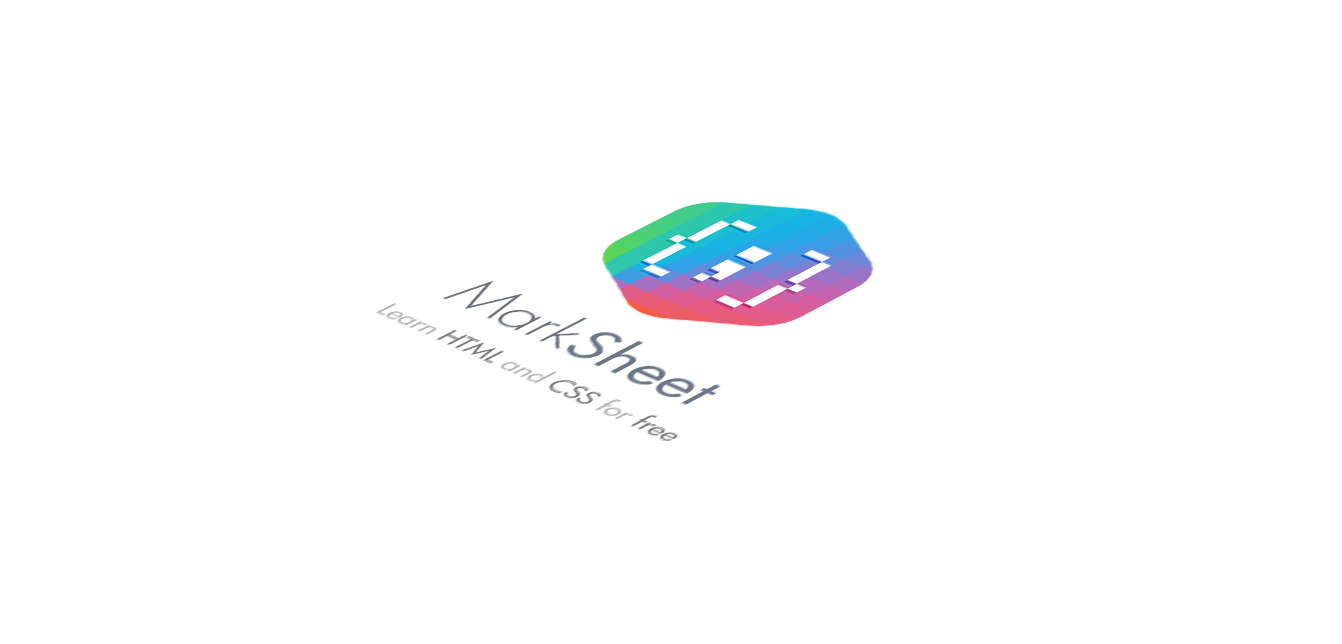
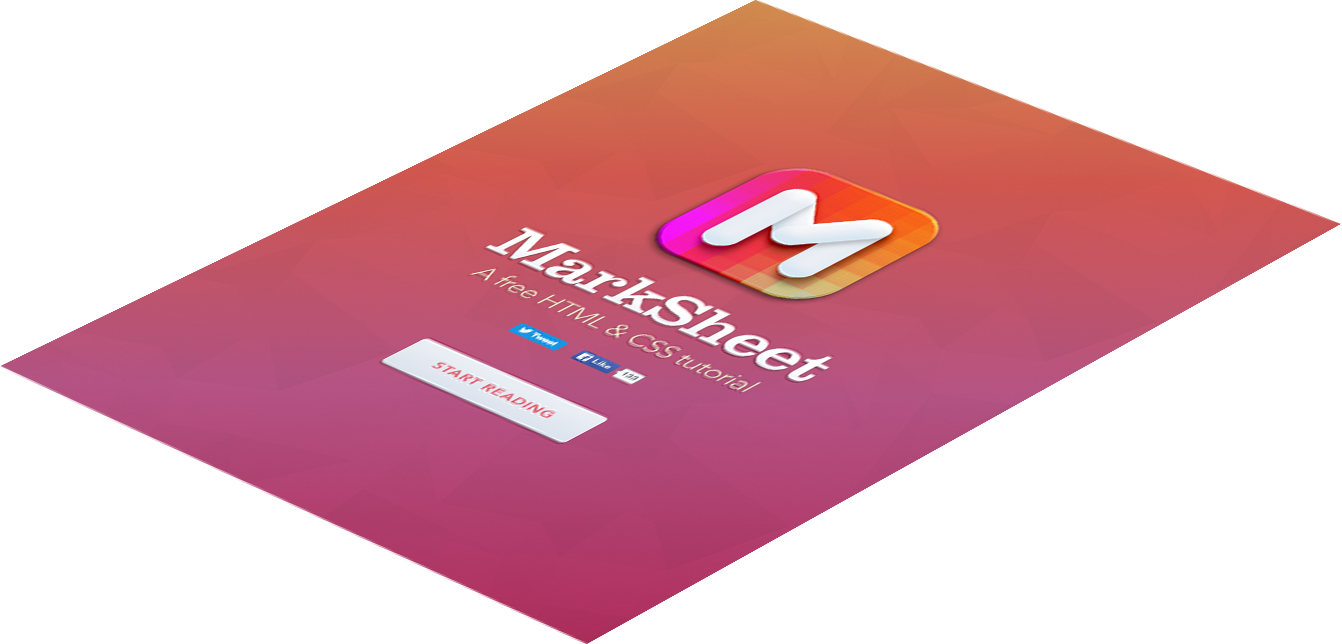
add improbable, update marksheet to v2

diff --git a/projects.html b/projects.html
@@ -9,6 +9,48 @@ route: projects
   <h2>For fun and knowledge</h2>
 </hgroup>
 
+<article class="project marksheet">
+  <figure class="device ipad-v">
+    <img class="lazy" data-src="/images/screenshots/marksheet.jpg" src="/images/empty.png">
+    <noscript>
+      <img src="/images/screenshots/marksheet.jpg">
+    </noscript>
+  </figure>
+
+  <div class="container">
+    <div class="project-content">
+      <p class="date">November 2015</p>
+
+      <figure class="logo">
+        <img class="lazy" data-src="/images/projects/marksheet.png" src="/images/empty.png">
+        <noscript>
+          <img src="/images/projects/marksheet.png">
+        </noscript>
+      </figure>
+
+      <h2 class="title">
+        MarkSheet v2
+      </h2>
+
+      <p class="url">marksheet.io</p>
+
+      <div class="content">
+        <p>Throughout <span class="css-years"></span> years of front-end design, I have acquired both a reasonable set of CSS skills and an unwavering desire to share my knowledge.</p>
+        <p>This free tutorial is my humble attempt to contribute to the community-driven information platform that the Web is and always will be.</p>
+      </div>
+
+      <ul class="icons">
+        <li><i class="fa fa-creative-commons"></i></li>
+        <li><i class="fa fa-github-alt"></i></li>
+        <li><i class="fa fa-html5"></i></li>
+        <li><i class="fa fa-css3"></i></li>
+      </ul>
+    </div>
+  </div>
+
+  <a class="permalink" href="http://marksheet.io" target="_blank"></a>
+</article>
+
 <article class="project barn-dor">
   <figure class="device macbook-air">
     <img class="lazy" data-src="/images/screenshots/barn-dor.jpg" src="/images/empty.png">
@@ -49,48 +91,6 @@ route: projects
   <a class="permalink" href="http://barn-dor.com" target="_blank"></a>
 </article>
 
-<article class="project marksheet">
-  <figure class="device ipad-v">
-    <img class="lazy" data-src="/images/screenshots/marksheet.jpg" src="/images/empty.png">
-    <noscript>
-      <img src="/images/screenshots/marksheet.jpg">
-    </noscript>
-  </figure>
-
-  <div class="container">
-    <div class="project-content">
-      <p class="date">July 2015</p>
-
-      <figure class="logo">
-        <img class="lazy" data-src="/images/projects/marksheet.png" src="/images/empty.png">
-        <noscript>
-          <img src="/images/projects/marksheet.png">
-        </noscript>
-      </figure>
-
-      <h2 class="title">
-        MarkSheet
-      </h2>
-
-      <p class="url">marksheet.io</p>
-
-      <div class="content">
-        <p>Throughout <span class="css-years"></span> years of front-end design, I have acquired both a reasonable set of CSS skills and an unwavering desire to share my knowledge.</p>
-        <p>This free tutorial is my humble attempt to contribute to the community-driven information platform that the Web is and always will be.</p>
-      </div>
-
-      <ul class="icons">
-        <li><i class="fa fa-creative-commons"></i></li>
-        <li><i class="fa fa-github-alt"></i></li>
-        <li><i class="fa fa-html5"></i></li>
-        <li><i class="fa fa-css3"></i></li>
-      </ul>
-    </div>
-  </div>
-
-  <a class="permalink" href="http://marksheet.io" target="_blank"></a>
-</article>
-
 <article class="project ivan-ballini">
   <figure class="device imac">
     <img class="lazy" data-src="/images/screenshots/ivan-ballini.jpg" src="/images/empty.png">
@@ -123,7 +123,6 @@ route: projects
 
       <ul class="icons">
         <li><i class="fa fa-wordpress"></i></li>
-        <li><i class="fa fa-map-o"></i></li>
       </ul>
     </div>
   </div>

diff --git a/index.html b/index.html
@@ -4,7 +4,7 @@ title: "Jeremy Thomas – Front End Designer"
 route: index
 ---
 
-<section id="streethub" class="hello hello-streethub">
+<section id="improbable" class="hello hello-improbable">
   <div class="hello-background"></div>
   <svg id="iphone" class="line-drawing" width="100%" height="600" preserveAspectRatio="xMidYMid meet" xmlns="http://www.w3.org/2000/svg" viewBox="0 0 1000 600">
     <path d="m 579.44258,124.24714 c 0,0 26.94592,-21.17898 59.75842,0 l 123.29566,73.28106 c 0,0 33.20953,17.10157 -6.16339,38.18122 l -333.2977,213.97805 c 0,0 -27.64185,18.89166 -61.05094,-5.96649 L 237.49608,357.2156 c 0,0 -29.23265,-17.89804 0,-36.591 l 341.9465,-196.37746 z" />
@@ -25,13 +25,13 @@ route: index
     <path class="stroke-medium" d="m 318.65367,430.76556 c 0.92496,2.05231 0.50604,4.24277 -0.9357,4.89255 -1.44177,0.64978 -3.36035,-0.48715 -4.28531,-2.53946 -0.92495,-2.05228 -0.50604,-4.24277 0.9357,-4.89255 1.44177,-0.64978 3.36035,0.48718 4.28531,2.53946 z" />
   </svg>
   <div class="hello-screenshot">
-    <img src="/images/hello-streethub.png" alt="Screenshot of StreetHub iPhone app">
+    <img src="/images/hello-improbable.png" alt="Improbable logo">
   </div>
   <div class="hello-content">
     <div class="hello-text">
       <div class="container">
         <h1 class="title">
-          <strong>Front-End Designer</strong> from Bordeaux, currently working for <a href="https://www.streethub.com"><span>StreetHub</span></a> in sunny London.
+          <strong>Front-End Designer</strong> from Bordeaux, currently working for <a href="https://www.improbable.io"><span>Improbable</span></a> in sunny London.
         </h1>
         <p class="subtitle">Previously worked for:</p>
         <ul class="clients">

diff --git a/_sass/components.sass b/_sass/components.sass
@@ -154,7 +154,7 @@
       color: $text
       margin-bottom: $size-h1
       a
-        +grow($red)
+        +grow($improbable)
         color: white
         padding: 0 0.25em 0.05em
         white-space: nowrap
@@ -184,21 +184,21 @@
   &:first-child
     .hello-text
       padding-top: 60px
-  &.hello-streethub
+  &.hello-improbable
     .hello-background
-      +radial-gradient(ellipse farthest-side at 29% 29%, saturate($red, 100%), saturate($orange, 100%))
-      +hello-gradient($red, $orange)
+      +radial-gradient(ellipse farthest-side at 29% 29%, saturate($improbable, 100%), saturate(lighten($improbable, 10%), 100%))
+      +hello-gradient($improbable, lighten($improbable, 10%))
     .hello-screenshot img
       height: 275px
       margin: -153px 0 0 -219px
   &.hello-marksheet
     .hello-background
-      +hello-gradient($web, $css3)
+      +hello-gradient($marksheet, $marksheet-dark)
     .hello-screenshot img
       height: 322px
       margin: -172px 0 0 -334px
     .title a
-      +grow($css3)
+      +grow($marksheet)
       &:before
         border-radius: 0
         opacity: 1
@@ -287,7 +287,10 @@
     &.barn-dor
       +project(#121212, #69707a, #ebb550, white)
     &.marksheet
-      +project(white, hsl(217, 4%, 48%), $css3, $title)
+      +project($marksheet, #f4f1ce, white)
+      background-color: $marksheet
+      +linear-gradient(142deg, $marksheet-1, $marksheet-2 31%, $marksheet-3 65%, $marksheet-4)
+      text-shadow: 0 1px 2px rgba(black, .2)
     &.ivan-ballini
       +project($ivan-background, $ivan-text, $ivan-link, $ivan-title)
     &.css-off-2013

diff --git a/_sass/variables.sass b/_sass/variables.sass
@@ -22,6 +22,16 @@ $css3: #33a9dc
 $brique: #de7f2b
 $beige: #b8ac8d
 
+$improbable: #ff2e01
+
+$marksheet: #d16098
+$marksheet-dark: #f4a35b
+
+$marksheet-1: #f4a35b
+$marksheet-2: #f4655b
+$marksheet-3: #d16098
+$marksheet-4: #ca3469
+
 $ivan-background: #eae8e3
 $ivan-border: #b8ac8d
 $ivan-link: #de7f2b
